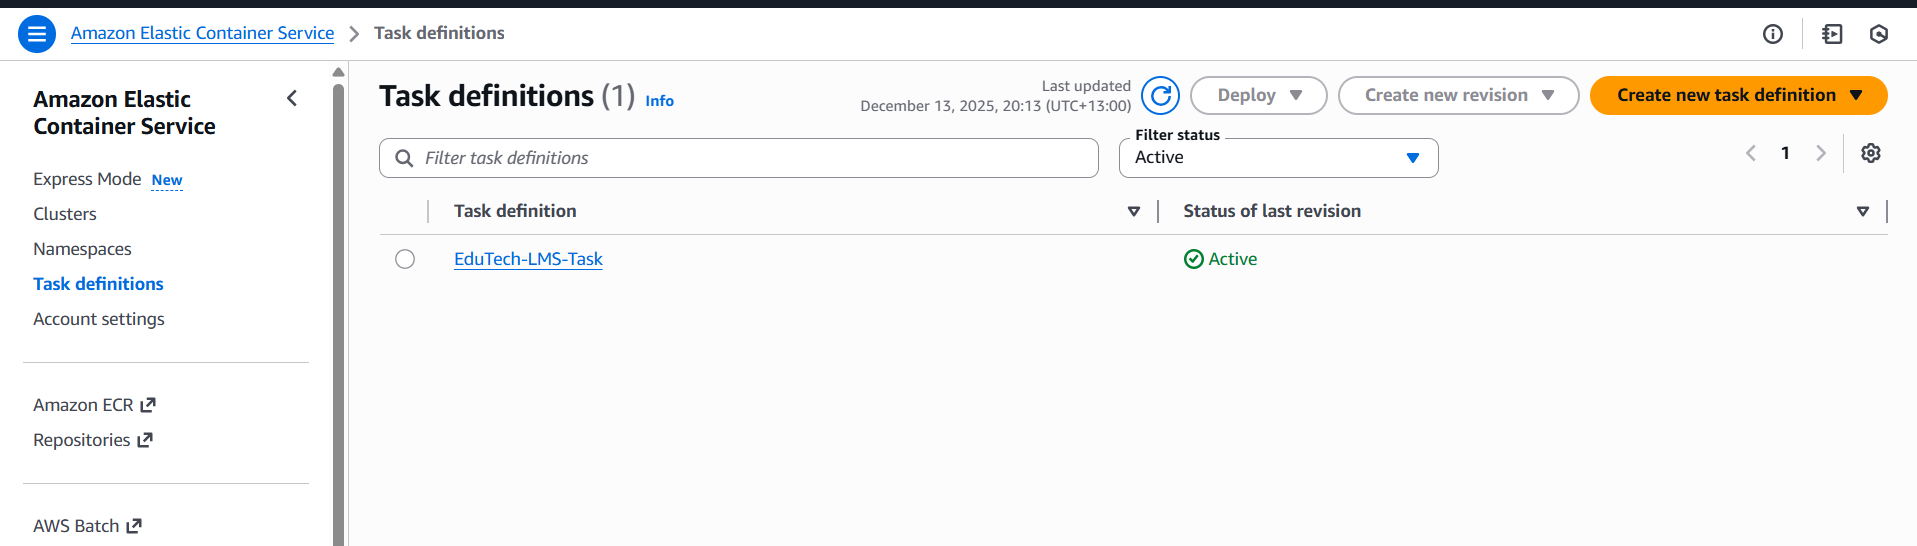
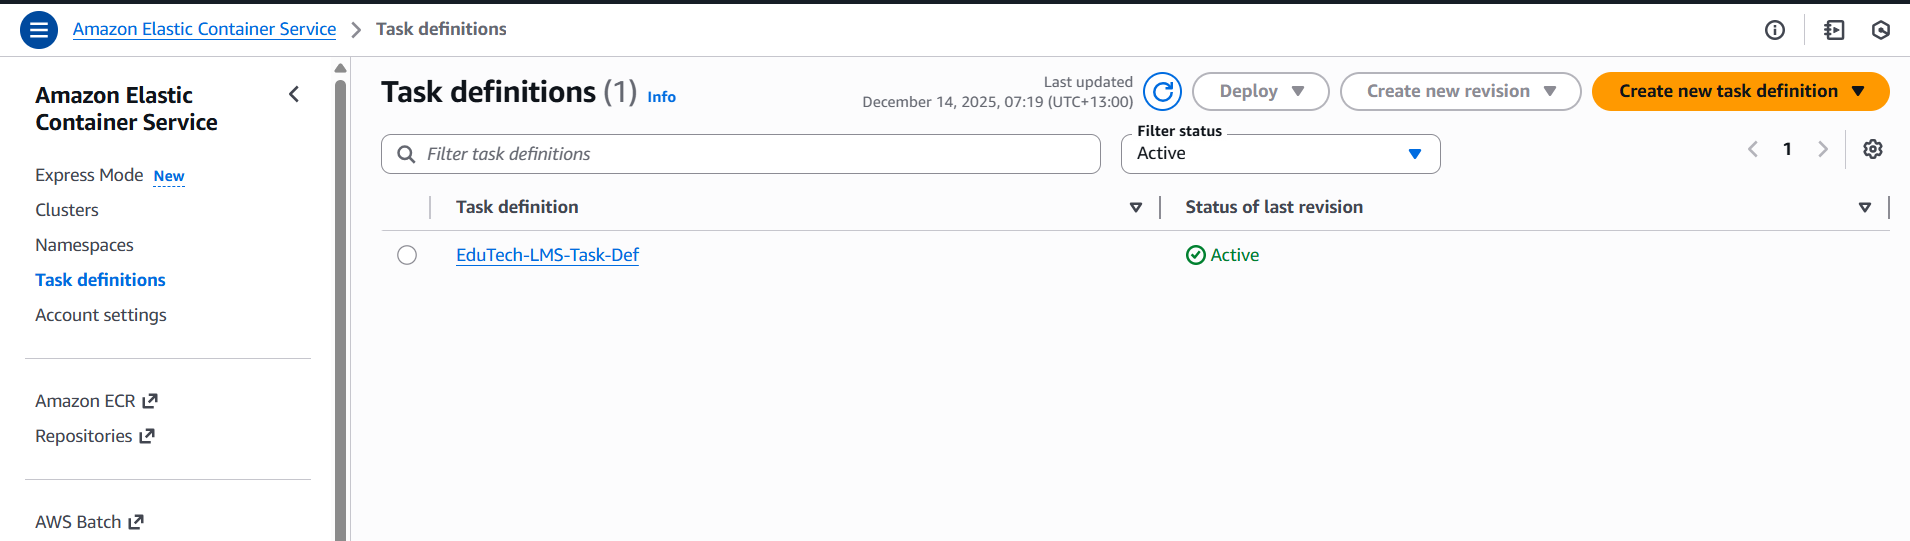
application deployed in ECS cluster

diff --git a/containerized-LMS-migration/README.md b/containerized-LMS-migration/README.md
@@ -153,31 +153,81 @@ joby@LAPTOP-KVPR8SO6:~/learn/aws-projects/containerized-LMS-migration/edutech-pr
 
 ## Deployment of the LMS Frontend on ECS Fargate
 
-1. Created an `ECS` cluster with `Fargate` as the infrastructure option - ` Using Fargate eliminates the need to provision and manage servers, making the deployment fully serverless and reducing operational overhead.`
+1. Created an `ECS` cluster named `EduTech-LMS-Cluster` with `Fargate` as the infrastructure option - ` Using Fargate eliminates the need to provision and manage servers, making the deployment fully serverless and reducing operational overhead.`
 
 ![alt text](images/image13.png)
 
 2. Created a `Task definition` with the following parameters - this defines the container execution parameters and resource requirements
 
-    * Task definition family: EduTech-LMS-Task
-    * Infrastructure requirements:
-        * Launch type: AWS Fargate
-        * Operating system/Architecture: Linux/X86_64
-        * CPU: 0.5 vCPU
-        * Memory: 1 GB
-        * Task role: EduTech-ECS-Task-Role
-        * Task execution role: EduTech-ECS-Task-Role
-    * Container - 1
-        * Name: lms-frontend
-        * Image URI: 0*************4.dkr.ecr.ap-southeast-2.amazonaws.com/edutech-lms-frontend (as obtained from ECR registry)
-        * Container Port: 3000
-        * Protocol: TCP
-        * CPU: 0.25
-        * Memory hard limit: 0.5
+    * `Task definition family`: EduTech-LMS-Task-Def
+    * `Infrastructure requirements`:
+        * `Launch type`: AWS Fargate
+        * `Operating system/Architecture`: Linux/X86_64
+        * `CPU`: 0.5 vCPU
+        * `Memory`: 1 GB
+        * `Task role`: EduTech-ECS-Task-Role
+        * `Task execution role`: EduTech-ECS-Task-Role
+    * `Container - 1`
+        * `Name`: lms-frontend
+        * `Image URI`: 0*************4.dkr.ecr.ap-southeast-2.amazonaws.com/edutech-lms-frontend (as obtained from ECR registry)
+        * `Container Port`: 3000
+        * `Protocol`: TCP
+        * `CPU`: 0.25
+        * `Memory hard limit`: 0.5
 
-![alt text](images/image14.png) 
-
+![alt text](images/image14.png)
 ![alt text](images/image15.png)
+
+3. Created an Application Load Balancer with the following parameters: `Using an Application Load Balancer enables advanced routing capabilities, health checks, andhigh availability across multiple availability zones`
+
+    * `Name`: EduTech-LMS-ALB
+    * `Scheme`: Internet-facing
+    * `IP address type`: IPv4
+    * `VPC`: EduTech-VPC
+    * `Availability Zones and subnets`: Select both
+    * `Security groups`: EduTech-ALB-SG
+    * `Listeners and routing`
+        * Keep the default HTTP on port 80
+        * `Routing action`: Forward to target groups
+        * `Create a target group`:
+            * `target type`: IP addresses
+            * `Name`: EduTech-LMS-TG
+            * `Protocol`: HTTP, Port: 80
+            * `IP address type`: IPv4
+            * `Health check protocol`: HTTP, Health check path: /
+            * Skip registering targets (ECS service will handle this) 
+        * Refresh Load Balancer page and select the target group `EduTech-LMS-TG`   
+
+![alt text](images/image16.png)
+![alt text](images/image17.png)
+
+4. Created an ECS service with the following parameters: `The service configuration ensures your container remains available and connects it to the load balancer for handling incoming traffic`
+
+    * `Task definition family`: EduTech-LMS-Task-Def
+    * `Task definition revision`: 1
+    * `Service name`: EduTech-LMS-Service
+    * `Launch type`: Fargate
+    * `Platform version`: LATEST
+    * `Scheduling strategy`: Replica
+    * `Desired tasks`: 1
+    * `VPC`: EduTech-VPC
+    * `Security group name`: EduTech-Container-SG
+    * `Load balancer type`: Application Load Balancer
+    * `Container`: lms-frontend 3000:3000
+    * `Use an existing load balancer`: ticked
+    * `Load balance`r: EduTech-LMS-ALB
+    * Use an existing listener
+    * Use an existing target group
+
+![alt text](images/image18.png)
+![alt text](images/image19.png)
+
+5. Accessed the LMS frontend application using the ALB DNS name and confirmed that it is accessible
+
+![alt text](images/image20.png)
+
+
+
 
 
 
